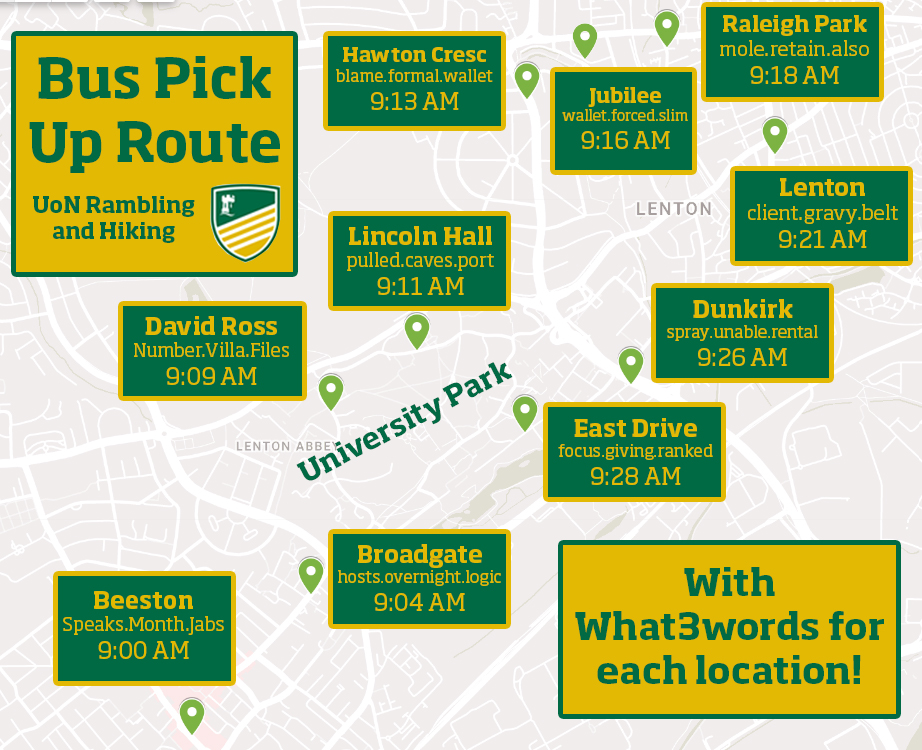
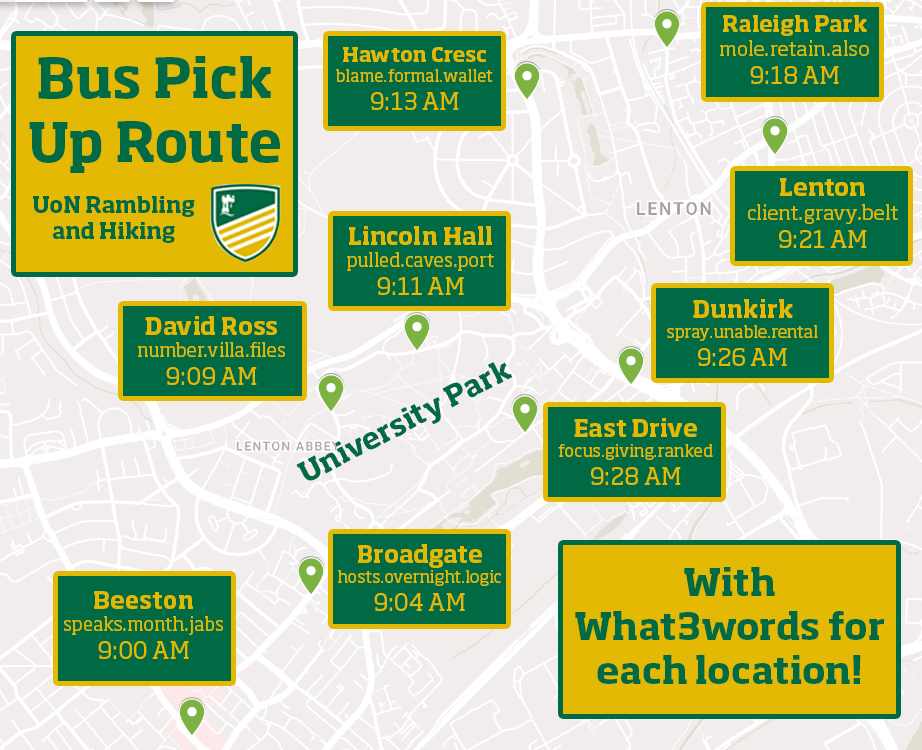
Quality of life updates (#2)
* fix bus route

* calendar fix

diff --git a/themes/greenandgold/layouts/calendar/calendar.html b/themes/greenandgold/layouts/calendar/calendar.html
@@ -6,7 +6,11 @@
     <hr>
     <h2>Event Overview</h2>
     <div class="ratio ratio-4x3">
-    <iframe src="https://calendar.google.com/calendar/embed?height=600&wkst=1&bgcolor=%23065434&ctz=Europe%2FLondon&showTitle=1&showNav=1&showDate=1&showPrint=0&showTabs=1&hl=en_GB&title=Rambling%20%26%20Hiking%20Calendar&src=ZjllZWZoYmxyNmhsbmVsbjFwdHU4NWpqaHY2c3ViY2FAaW1wb3J0LmNhbGVuZGFyLmdvb2dsZS5jb20&color=%23616161" style="border:solid 1px #777"></iframe>
+        <iframe id="open-web-calendar"
+                style="background:url('https://raw.githubusercontent.com/niccokunzmann/open-web-calendar/master/static/img/loaders/circular-loader.gif') center center no-repeat; border: 2px solid #ccc; border-radius: 4px;"
+                src="https://open-web-calendar.hosted.quelltext.eu/calendar.html?url=https%3A%2F%2Framsoc.co.uk%2Fcalendar%2Findex.ics&amp;title=Rambling%20%26%20Hiking%20Calendar&amp;timezone=Europe%2FLondon&amp;css=.dhx_cal_navline%2C%20.dhx_scale_bar%2C%20.dhx_cal_container%2C%20.dhx_cal_header%20%7Bbackground-color%3A%20%23DEB408%3B%7D%0A.event%2C%20.dhx_cal_tab.active%2C%20.dhx_cal_tab.active%3Ahover%20%7Bbackground-color%3A%20%23065434%3B%7D%20.dhx_month_head%2C%20.dhx_cal_tab%2C%20.dhx_cal_today_button%20%7Bcolor%3A%20%23065434%3B%7D%20.dhx_cal_tab%2C%20.dhx_cal_tab.active%20%7Bborder-color%3A%20%23065434%3B%7D%0A.event%7B%0Acolor%3Awhite%3B%0A%7D%0A.dhx_cal_qi_title%7B%0Abackground-color%3A%20%23DEB408%3B%0A%7D&amp;tabs="
+                sandbox="allow-scripts allow-same-origin allow-top-navigation"
+                allowTransparency="true" height="600px" width="100%"></iframe>
     </div>
         <h2>Subscribing To Calendar</h2>
     <ul class="list-group list-group my-3">
